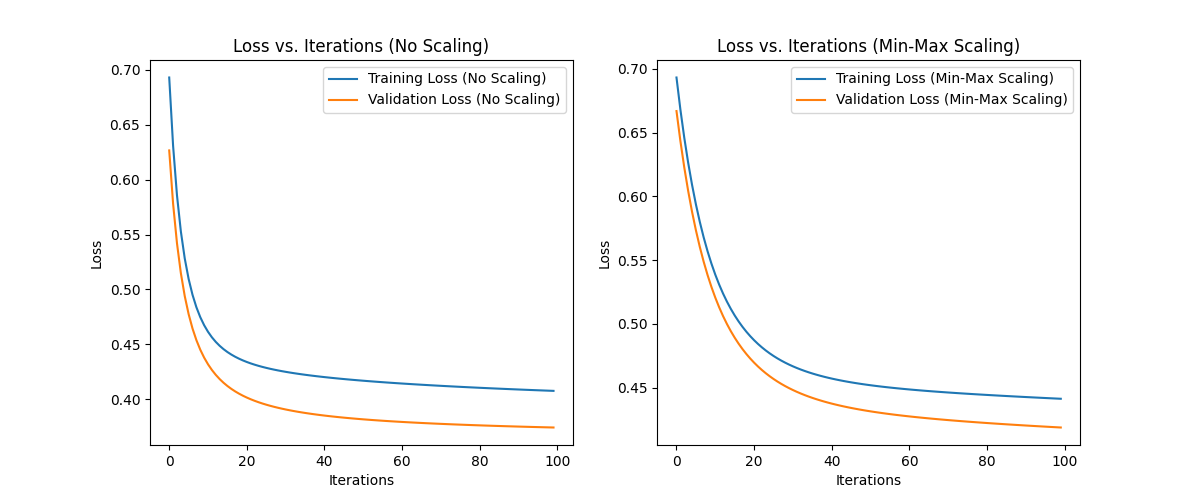
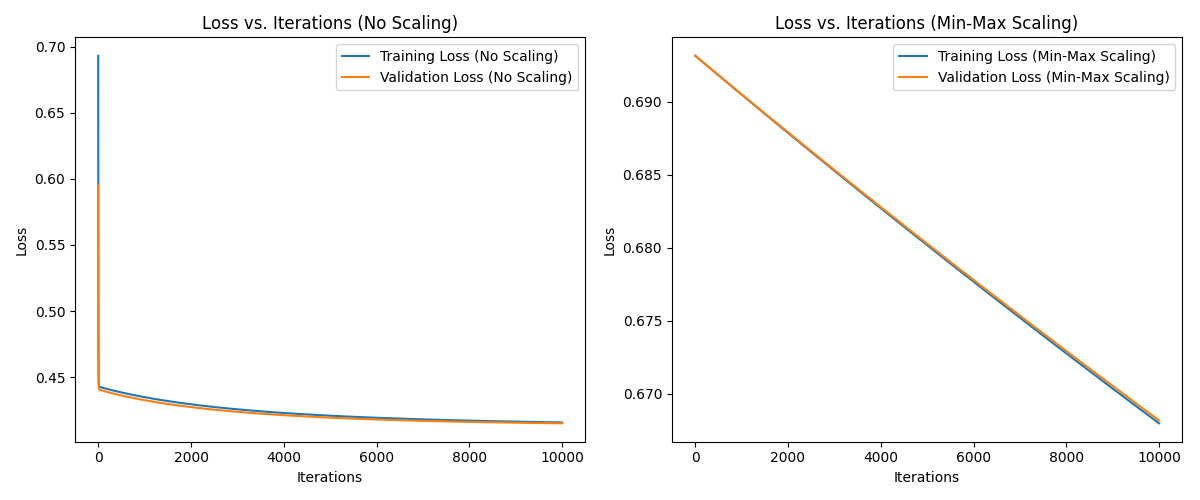
B over

diff --git a/A1/Q2/B.py b/A1/Q2/B.py
@@ -17,8 +17,8 @@ X = df.drop('HeartDisease', axis=1).values
 y = df['HeartDisease'].values
 
 # Split the dataset into 70:15:15 train, test, and validation splits
-X_train, X_temp, y_train, y_temp = train_test_split(X, y, test_size=0.3, random_state=42)
-X_val, X_test, y_val, y_test = train_test_split(X_temp, y_temp, test_size=0.5, random_state=42)
+X_train, X_temp, y_train, y_temp = train_test_split(X, y, test_size=0.3, random_state=42, stratify=y)
+X_val, X_test, y_val, y_test = train_test_split(X_temp, y_temp, test_size=0.5, random_state=42, stratify=y_temp)
 
 def sigmoid(z):
     return 1 / (1 + np.exp(-z))
@@ -65,29 +65,6 @@ def min_max_scale(X_train, X_val):
     
     return X_train_scaled, X_val_scaled
 
-X_train_scaled, X_val_scaled = min_max_scale(X_train, X_val)
-
-train_losses_minmax, val_losses_minmax = logistic_regression(X_train_scaled, y_train, X_val_scaled, y_val)
-
-# Plotting Loss vs Iterations
-plt.figure(figsize=(12, 5))
-
-# Min-Max Scaling Plot
-plt.subplot(1, 2, 2)
-plt.plot(train_losses_minmax, label='Training Loss (Min-Max Scaling)')
-plt.plot(val_losses_minmax, label='Validation Loss (Min-Max Scaling)')
-plt.xlabel('Iterations')
-plt.ylabel('Loss')
-plt.title('Loss vs. Iterations (Min-Max Scaling)')
-plt.legend()
-
-# plt.tight_layout()
-# plt.show()
-
-# Split the dataset into 70:15:15 train, test, and validation splits
-X_train, X_temp, y_train, y_temp = train_test_split(X, y, test_size=0.3, random_state=42, stratify=y)
-X_val, X_test, y_val, y_test = train_test_split(X_temp, y_temp, test_size=0.5, random_state=42, stratify=y_temp)
-
 def apply_scaling(scaling=True):
     if scaling:
         X_train_scaled, X_val_scaled = min_max_scale(X_train, X_val)
@@ -109,6 +86,14 @@ plt.plot(val_losses_no_scaling, label='Validation Loss (No Scaling)')
 plt.xlabel('Iterations')
 plt.ylabel('Loss')
 plt.title('Loss vs. Iterations (No Scaling)')
+plt.legend()
+
+plt.subplot(1, 2, 2)
+plt.plot(train_losses_minmax, label='Training Loss (Min-Max Scaling)')
+plt.plot(val_losses_minmax, label='Validation Loss (Min-Max Scaling)')
+plt.xlabel('Iterations')
+plt.ylabel('Loss')
+plt.title('Loss vs. Iterations (Min-Max Scaling)')
 plt.legend()
 
 plt.tight_layout()
